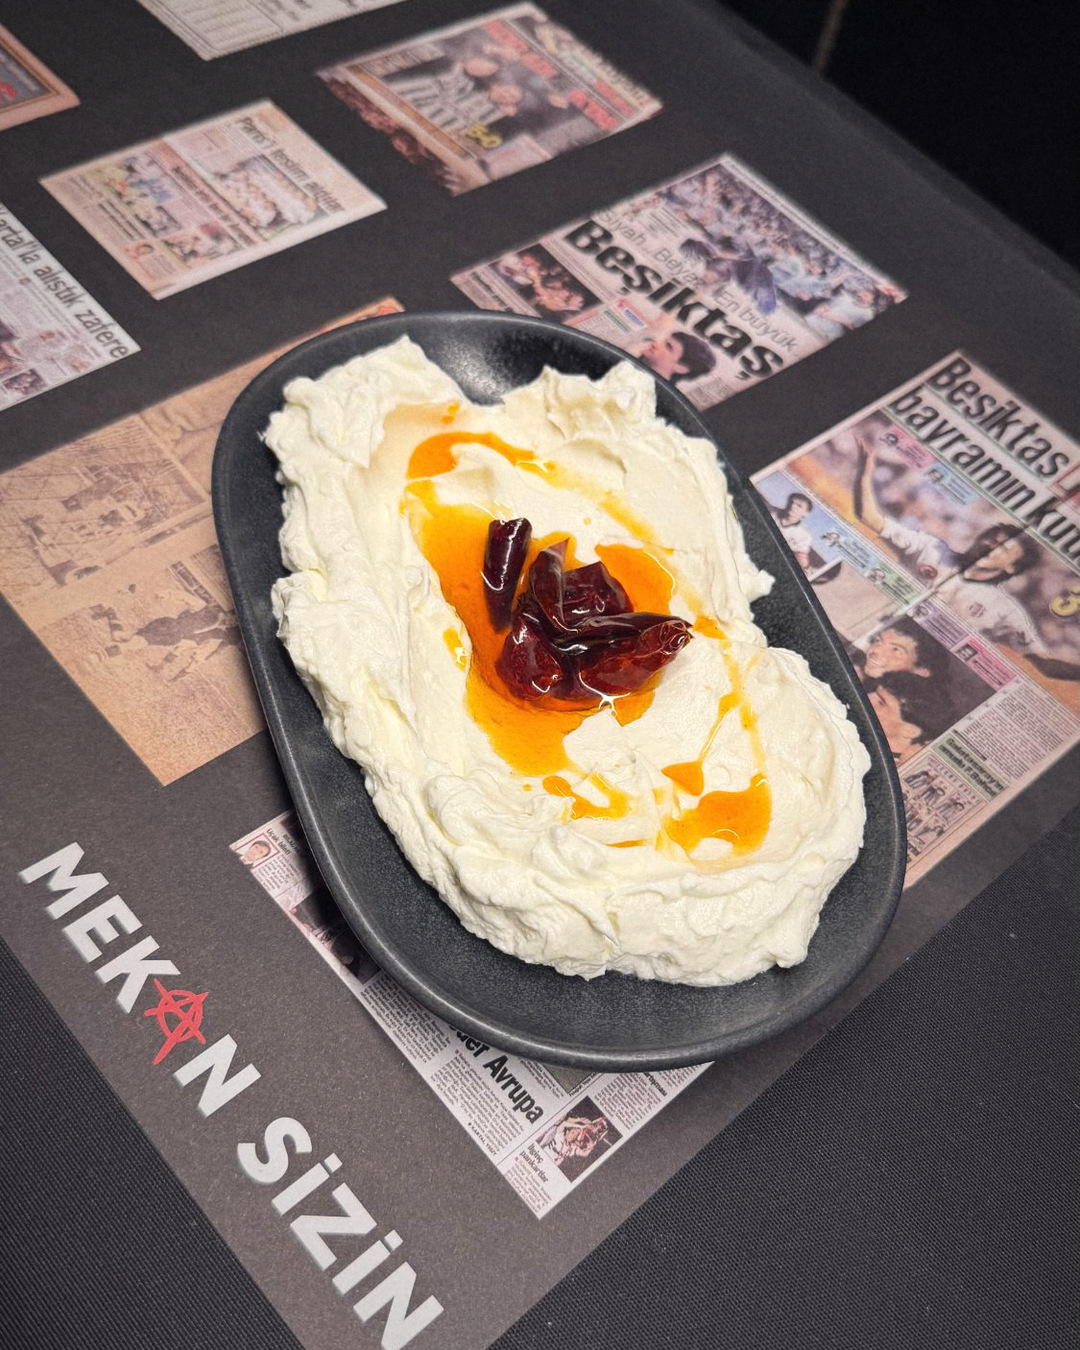
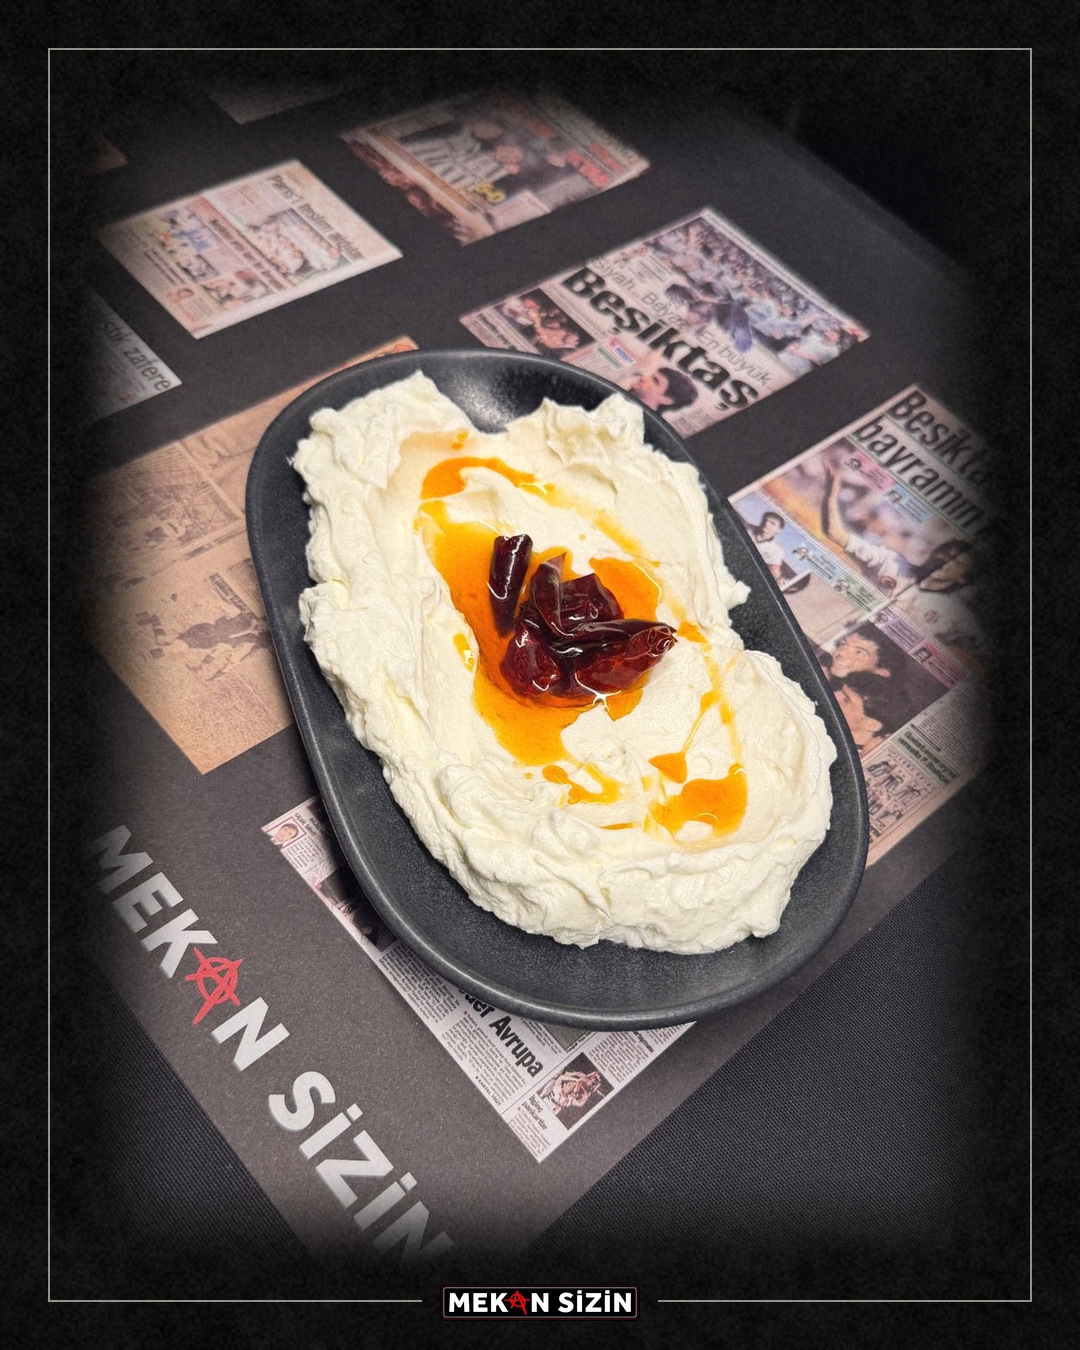
Frame the Mekan Sizin meze photos to match the match posters
cerceve.py fades each graded photo into the posters' charcoal wall, adds a
thin cream frame line inside the 3:4 profile crop and a small plate logo
breaking the line at the bottom. foto.py now writes an ungrained hazir-*
intermediate so the grain is applied once.

Claude-Session: https://claude.ai/code/session_01XJxz6TxayURknP2UowWRAx

diff --git a/mekan-sizin/sablon/cerceve.py b/mekan-sizin/sablon/cerceve.py
@@ -1,0 +1,75 @@
+"""Mekan Sizin - meze fotoğraflarını afişlerle aynı dile sokan çerçeve (1080x1350).
+
+Kullanım:  python3 cerceve.py cerceve.json
+Fotoğraf, afişlerdeki koyu beton duvar zeminine kenarlardan yumuşakça solarak oturur; dışında ince krem
+bir çerçeve çizgisi, alt ortasında çizgiyi kesen küçük plaka logo vardır. Çerçeve, profil ızgarasının 3:4
+kırpmasında da (yanlardan 34 px) görünecek kadar içeridedir.
+Her kayıt: {"kaynak": renk ayarı yapılmış foto, "cikti": ..., "merkez": [x, y], "yakinlik": 1.0}
+"""
+import json
+import sys
+
+import numpy as np
+from PIL import Image, ImageDraw
+
+from foto import crop_to, film_grain
+from mac_bileti import CREAM, noise, path
+
+W, H = 1080, 1350
+LINE = 48      # frame line inset from the canvas edge
+INSET = 70     # photo area inset
+FADE = 120     # width of the edge fade inside the photo area
+
+
+def wall():
+    """Same charcoal concrete texture as the match posters."""
+    tex = 0.5 * noise((W, H), 3, 1) + 0.3 * noise((W, H), 14, 2) + 0.2 * noise((W, H), 60, 3)
+    base = 16 + (tex - 0.5) * 22
+    return np.dstack([base, base, base * 0.97])
+
+
+def fade_mask(w, h):
+    """1 in the middle, easing to 0 at every edge; corners fade softly (product of both axes)."""
+    def ramp(n):
+        t = np.clip(np.minimum(np.arange(n), np.arange(n)[::-1]) / FADE, 0, 1)
+        return t * t * (3 - 2 * t)
+    return np.outer(ramp(h), ramp(w)).astype(np.float32)
+
+
+def frame(item):
+    photo = Image.open(path(item["kaynak"])).convert("RGB")
+    pw, ph = W - 2 * INSET, H - 2 * INSET
+    photo = crop_to(photo, (pw, ph), tuple(item.get("merkez", (0.5, 0.5))), item.get("yakinlik", 1.0))
+    base = wall()
+    canvas = base.copy()
+    m = fade_mask(pw, ph)[..., None]
+    region = canvas[INSET:INSET + ph, INSET:INSET + pw]
+    canvas[INSET:INSET + ph, INSET:INSET + pw] = region * (1 - m) + np.asarray(photo, np.float32) * m
+    img = Image.fromarray(np.clip(canvas, 0, 255).astype(np.uint8)).convert("RGBA")
+
+    logo = Image.open(path("assets/mekan-sizin-plaka-logo.png")).convert("RGBA")
+    lw = item.get("logo_genislik", 200)
+    logo = logo.resize((lw, round(logo.height * lw / logo.width)), Image.LANCZOS)
+    lx, ly = (W - lw) // 2, H - LINE - logo.height // 2
+
+    layer = Image.new("RGBA", img.size, (0, 0, 0, 0))
+    ImageDraw.Draw(layer).rectangle((LINE, LINE, W - 1 - LINE, H - 1 - LINE), outline=CREAM + (150,), width=2)
+    img.alpha_composite(layer)
+    # the line stops a little before the logo on both sides
+    gap = (lx - 18, H - LINE - 4, lx + lw + 18, H - LINE + 4)
+    wall_img = Image.fromarray(np.clip(base, 0, 255).astype(np.uint8)).convert("RGBA")
+    img.paste(wall_img.crop(gap), gap[:2])
+    img.alpha_composite(logo, (lx, ly))
+    return film_grain(img.convert("RGB"), item.get("gren", 4.5), seed=item.get("seed", 51))
+
+
+def main():
+    with open(sys.argv[1], encoding="utf-8") as fh:
+        items = json.load(fh)
+    for item in items:
+        frame(item).save(path(item["cikti"]), quality=93, subsampling=0)
+        print("kaydedildi:", path(item["cikti"]))
+
+
+if __name__ == "__main__":
+    main()

diff --git a/mekan-sizin/haftalik-feed-2/PAYLASIM-PLANI.md b/mekan-sizin/haftalik-feed-2/PAYLASIM-PLANI.md
@@ -25,7 +25,7 @@
 
 ## Fotoğraflar
 
-Mekânın gönderdiği kareler tabak tabak ayrıldı, her tabağın en net karesi seçildi (`kaynak/ham/`). Şakşuka tabağının kenarındaki iki yağ damlası tabağın kendi dokusundan kopyalanarak temizlendi (`ayarlar/rotus.json`), başka hiçbir yere dokunulmadı. Sonra ilk haftanın renk ayarı ve greni uygulandı; cacık karesinde köşeye taşan logo parçası kadrajdan çıkarıldı.
+Mekânın gönderdiği kareler tabak tabak ayrıldı, her tabağın en net karesi seçildi (`kaynak/ham/`). Şakşuka tabağının kenarındaki iki yağ damlası tabağın kendi dokusundan kopyalanarak temizlendi (`ayarlar/rotus.json`), başka hiçbir yere dokunulmadı. Sonra ilk haftanın renk ayarı uygulandı; cacık karesinde köşeye taşan logo parçası kadrajdan çıkarıldı. Son olarak fotoğraflar afişlerle aynı dile sokuldu (`sablon/cerceve.py`): kenarlar afişlerdeki koyu beton zemine doğru soluyor, dışta ince krem çerçeve çizgisi ve alt ortada çizgiyi kesen küçük plaka logo var. Çerçeve, profil ızgarasının 3:4 kırpmasında da görünecek kadar içeride.
 
 ---
 
@@ -134,6 +134,7 @@ Alternatif metin: Zeytinyağlı ve ince kıyılmış salatalıklı cacık, gazet
 ```
 python3 rotus.py ../haftalik-feed-2/ayarlar/rotus.json
 python3 foto.py ../haftalik-feed-2/ayarlar/fotograflar.json
+python3 cerceve.py ../haftalik-feed-2/ayarlar/cerceve.json
 python3 story.py ../haftalik-feed-2/ayarlar/1a-trabzonspor-story.json
 python3 mac_sonu.py ../haftalik-feed-2/ayarlar/1b-trabzonspor-mac-sonu.json TS_SKOR BJK_SKOR
 python3 mac_bileti.py ../haftalik-feed-2/ayarlar/2-crystal-palace-hatirlatma.json
